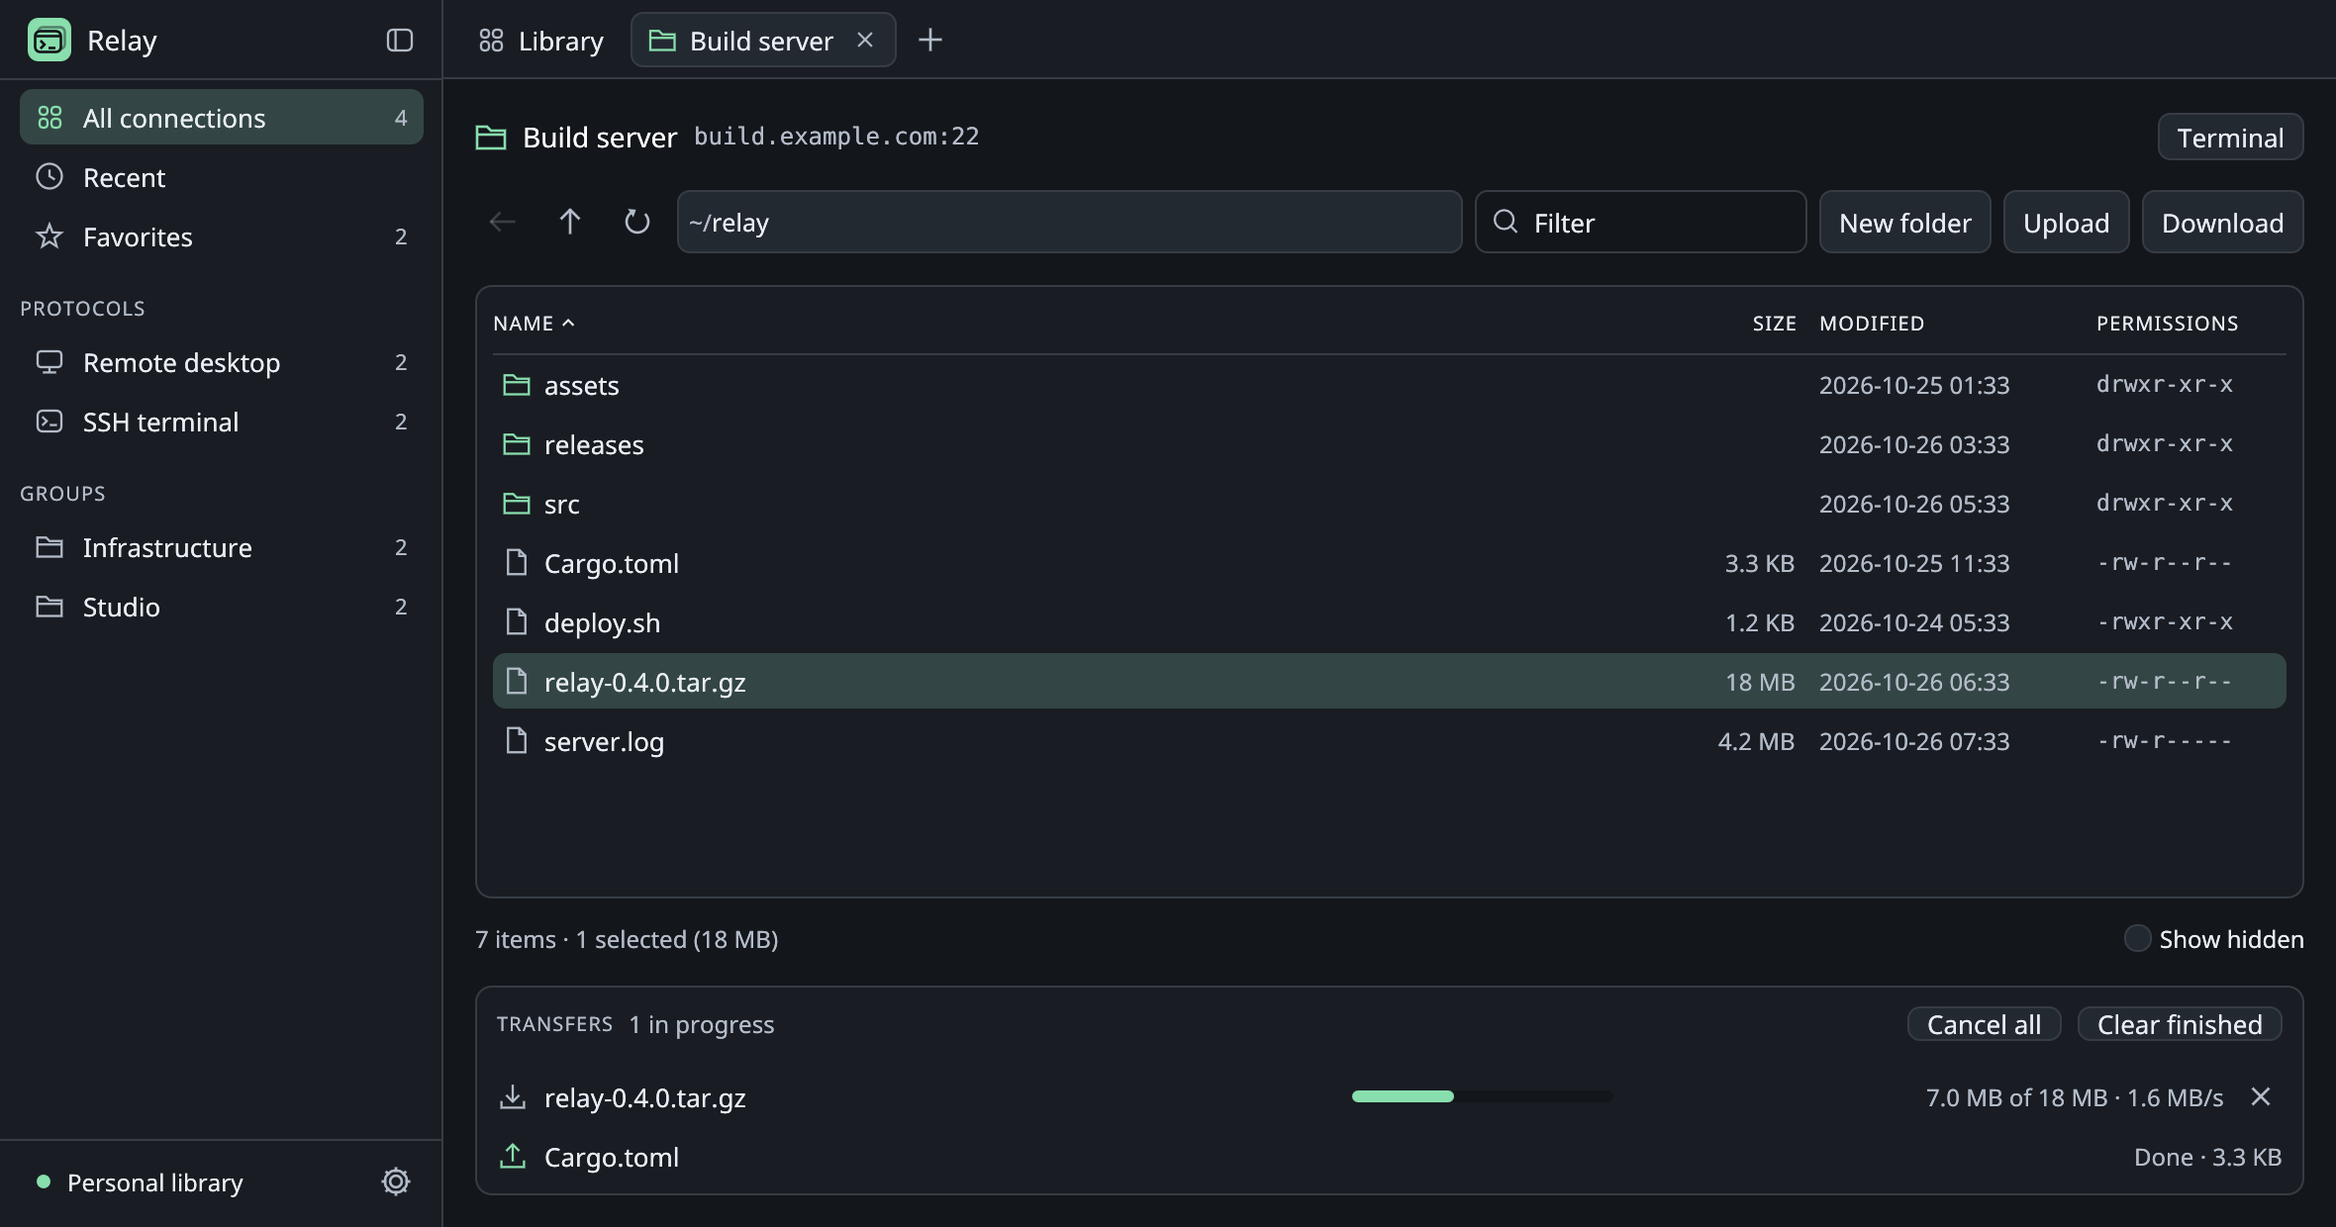
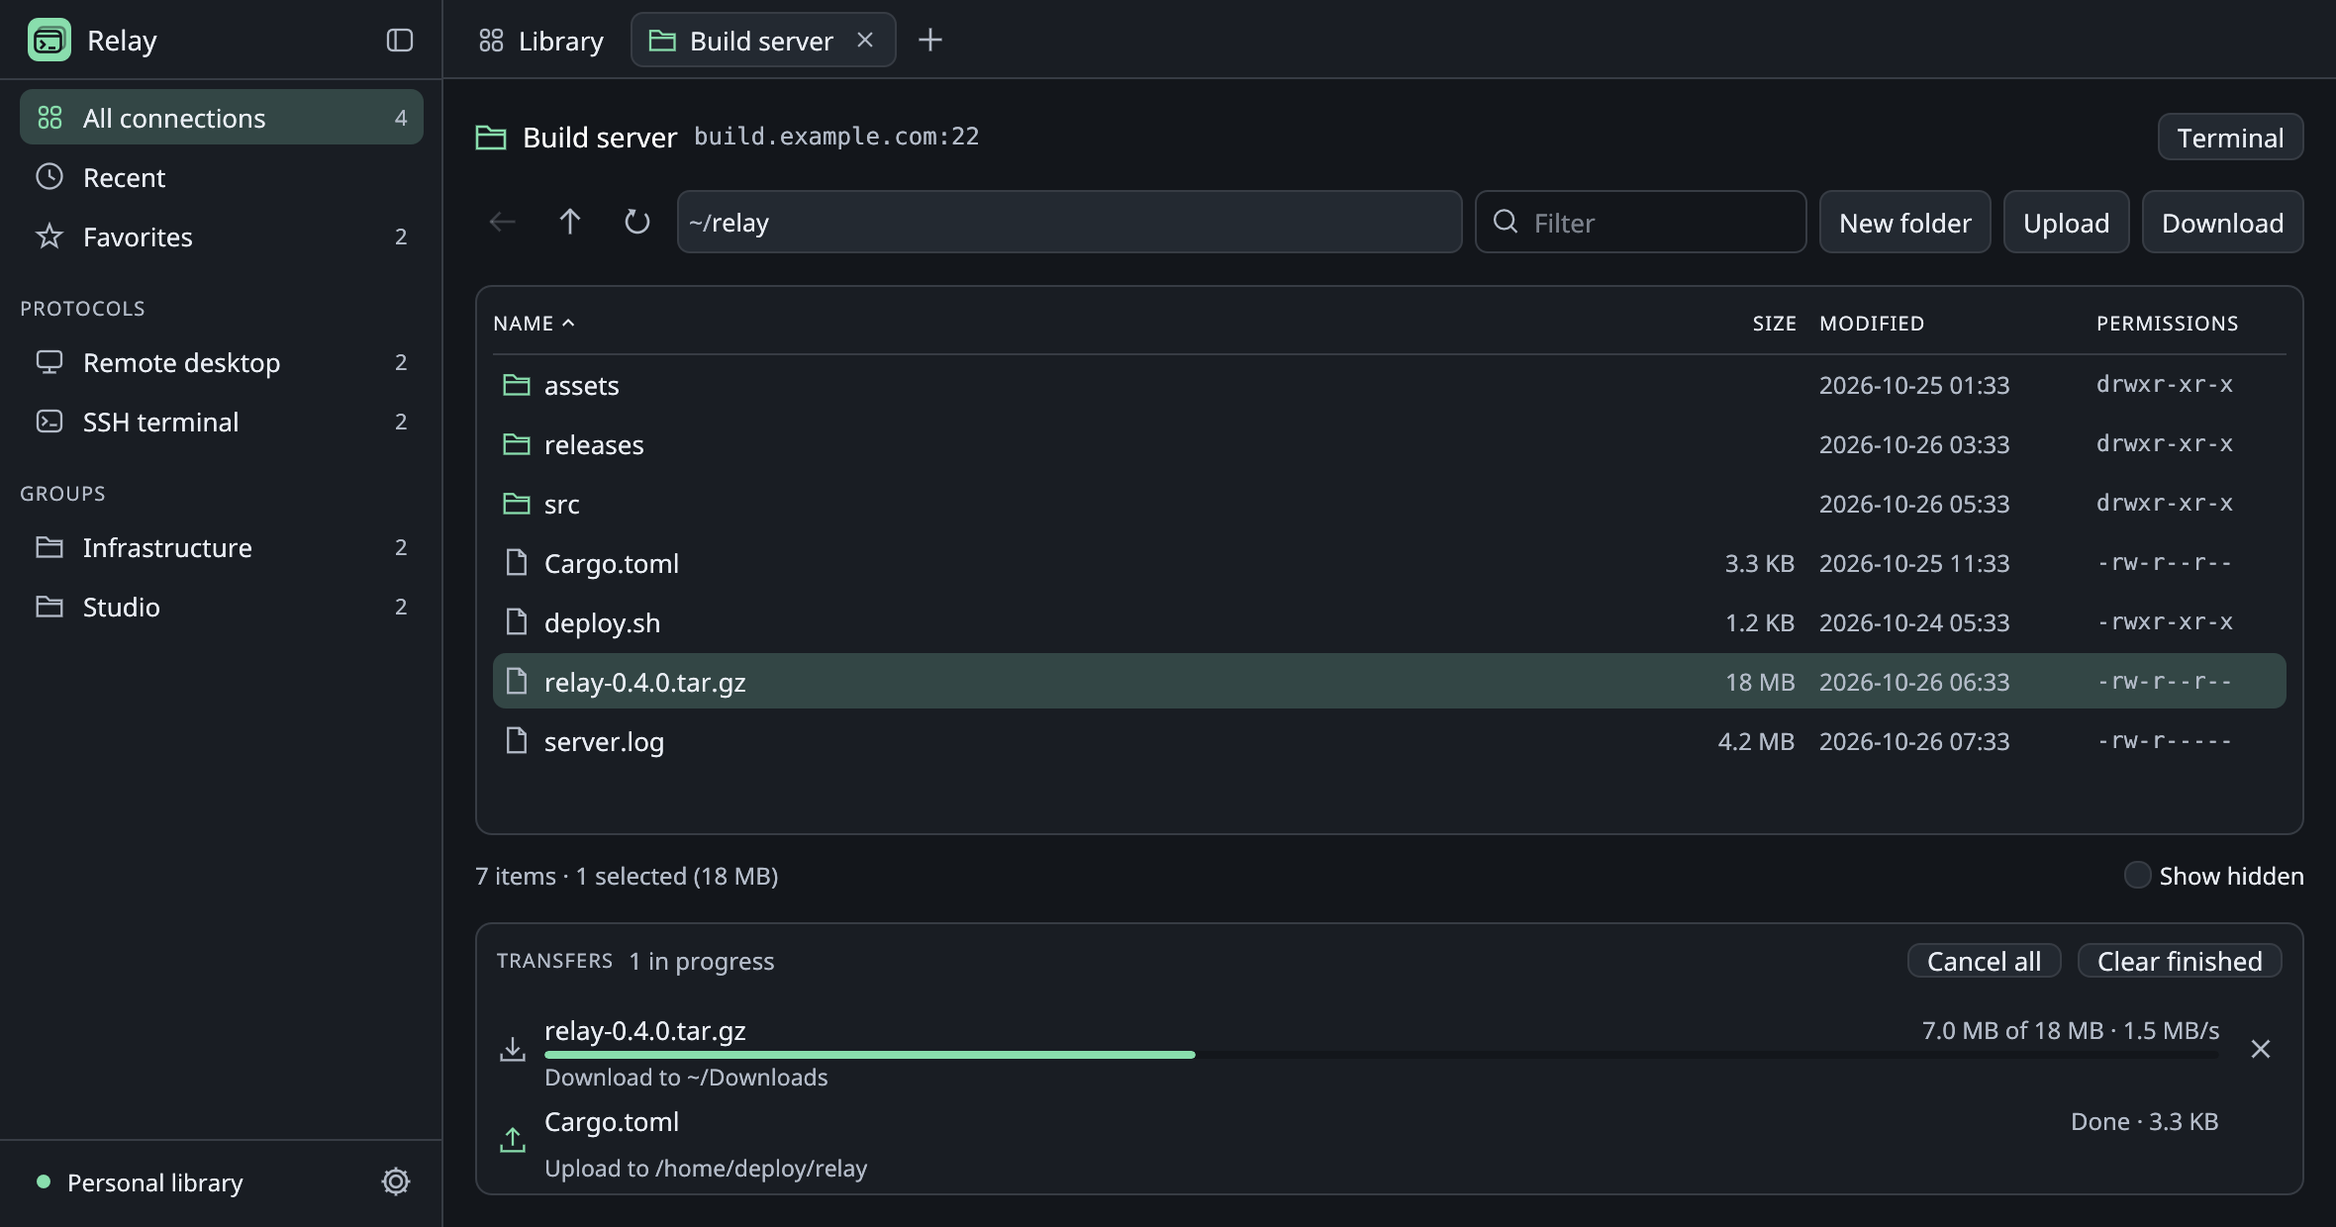
Lay transfers out on two lines and keep a long queue from crowding the listing
Each transfer now shows its name and status on the first line, a progress
bar right beneath them, and where it goes on the second line, shortened
from the start of the path when narrow. Hovering shows the full source and
destination paths. The queue scrolls past four rows or a third of the tab,
whichever is less, and the area below the listing takes the height it
needs instead of being clipped to last frame's. RELAY_UI_FILES=queue
renders a queue long enough to scroll.

Claude-Session: https://claude.ai/code/session_01HTqDGWUcTNEvHi8QqJcYEG

diff --git a/src/app/files.rs b/src/app/files.rs
@@ -7,13 +7,16 @@ use crate::sftp::{
 };
 use egui::{Align, Layout, Margin, Rect, Sense, UiBuilder};
 
-/// The height of a row in the listing and in the transfer queue.
+/// The height of a row in the listing.
 const FILE_ROW: f32 = 30.;
 
 /// The height of fields and buttons in the bars above the listing.
 const BAR_CONTROL: f32 = 28.;
 
-/// Rows of the transfer queue shown before it scrolls.
+/// The height of a row in the transfer queue: name and status, progress, destination.
+const TRANSFER_ROW: f32 = 46.;
+
+/// Rows of the transfer queue shown before it scrolls, when the tab has room for them.
 const TRANSFER_ROWS: usize = 4;
 
 /// Items dragged in a listing, which can be dropped on a folder to move them there.
@@ -184,7 +187,8 @@ fn browser(
             }
             if !files.transfers.is_empty() {
                 ui.add_space(20.);
-                transfers(ui, files);
+                let height = ui.available_height() - 60.;
+                transfers(ui, files, height);
             }
             return;
         }
@@ -214,15 +218,22 @@ fn browser(
             .layout(Layout::top_down(Align::LEFT)),
     );
     let target = table(&mut top, files, key, &names, listing.height(), actions);
+    // Not bounded below, so it takes the height it wants and the next frame makes room.
     let mut below = ui.new_child(
         UiBuilder::new()
-            .max_rect(Rect::from_min_max(egui::pos2(full.left(), split), full.max))
+            .max_rect(Rect::from_min_max(
+                egui::pos2(full.left(), split),
+                egui::pos2(full.right(), split + full.height()),
+            ))
             .layout(Layout::top_down(Align::LEFT)),
     );
     status_bar(&mut below, files, &names);
     if !files.transfers.is_empty() {
         below.add_space(2.);
-        transfers(&mut below, files);
+        // At most a third of the tab, so a long queue scrolls instead of crowding out the
+        // listing.
+        let height = (full.height() / 3.).max(TRANSFER_ROW * 1.5);
+        transfers(&mut below, files, height);
     }
     let used = below.min_rect().height();
     if (used - bottom).abs() > 0.5 {
@@ -1317,8 +1328,8 @@ fn status_bar(ui: &mut egui::Ui, files: &mut Browser, names: &[String]) {
     });
 }
 
-/// The queue of uploads and downloads, newest last.
-fn transfers(ui: &mut egui::Ui, files: &mut Browser) {
+/// The queue of uploads and downloads, newest last, scrolling past `max_height` of rows.
+fn transfers(ui: &mut egui::Ui, files: &mut Browser, max_height: f32) {
     let colors = theme::palette(ui.ctx());
     let active = files.active_transfers();
     let failed = files
@@ -1366,7 +1377,7 @@ fn transfers(ui: &mut egui::Ui, files: &mut Browser) {
             });
             egui::ScrollArea::vertical()
                 .id_salt("files-transfers")
-                .max_height(FILE_ROW * TRANSFER_ROWS as f32)
+                .max_height((TRANSFER_ROW * TRANSFER_ROWS as f32).min(max_height))
                 .auto_shrink([false, true])
                 .stick_to_bottom(true)
                 .show(ui, |ui| {
@@ -1391,88 +1402,154 @@ enum TransferAction {
     Replace,
 }
 
+/// One transfer on two lines: the name with its status, a progress bar beneath while it
+/// runs, and where it goes. The full paths show on hover.
 fn transfer_row(ui: &mut egui::Ui, t: &Transfer, actions: &mut Vec<(u64, TransferAction)>) {
     let colors = theme::palette(ui.ctx());
     let width = ui.available_width();
-    let (rect, _) = ui.allocate_exact_size(Vec2::new(width, FILE_ROW), Sense::hover());
-    let mut row = ui.new_child(
-        UiBuilder::new()
-            .max_rect(rect)
-            .layout(Layout::left_to_right(Align::Center)),
-    );
-    row.spacing_mut().item_spacing.x = 8.;
+    let (rect, response) = ui.allocate_exact_size(Vec2::new(width, TRANSFER_ROW), Sense::hover());
     let (icon, verb) = match t.direction {
         Direction::Upload => (Icon::Upload, "Upload to"),
         Direction::Download => (Icon::Download, "Download to"),
     };
-    let (icon_rect, _) = row.allocate_exact_size(Vec2::splat(16.), Sense::hover());
     let tint = match &t.state {
         TransferState::Done => colors.accent,
-        TransferState::Stopped(Failure::Error(_)) => row.visuals().error_fg_color,
-        TransferState::Stopped(Failure::Exists(_)) => row.visuals().warn_fg_color,
+        TransferState::Stopped(Failure::Error(_)) => ui.visuals().error_fg_color,
+        TransferState::Stopped(Failure::Exists(_)) => ui.visuals().warn_fg_color,
         _ => colors.muted,
     };
-    icons::paint_sized(row.painter(), icon, icon_rect.center(), ICON_SIZE, tint);
-    // Buttons and status sit at the right; the name and progress share what is left.
-    let (status, color) = transfer_status(&row, t);
-    row.with_layout(Layout::right_to_left(Align::Center), |ui| {
-        match &t.state {
-            TransferState::Queued | TransferState::Running => {
-                if icon_button(ui, Icon::Close, 22., "Cancel").clicked() {
-                    actions.push((t.id, TransferAction::Cancel));
-                }
+    icons::paint_sized(
+        ui.painter(),
+        icon,
+        egui::pos2(rect.left() + 8., rect.center().y),
+        ICON_SIZE,
+        tint,
+    );
+    // The button sits at the right, centered on the row; a finished transfer keeps an
+    // empty slot the size of the cancel button, so the statuses line up.
+    let mut buttons = ui.new_child(
+        UiBuilder::new()
+            .max_rect(Rect::from_min_max(
+                egui::pos2(rect.right() - 120., rect.top()),
+                rect.max,
+            ))
+            .layout(Layout::right_to_left(Align::Center)),
+    );
+    match &t.state {
+        TransferState::Queued | TransferState::Running => {
+            if icon_button(&mut buttons, Icon::Close, 22., "Cancel").clicked() {
+                actions.push((t.id, TransferAction::Cancel));
             }
-            TransferState::Stopped(Failure::Exists(_)) => {
-                if ui.small_button("Replace").clicked() {
-                    actions.push((t.id, TransferAction::Replace));
-                }
-            }
-            TransferState::Stopped(_) => {
-                if ui.small_button("Retry").clicked() {
-                    actions.push((t.id, TransferAction::Retry));
-                }
-            }
-            TransferState::Done => {}
         }
-        let status_width = (ui.available_width() * 0.42).clamp(90., 300.);
-        let (cell, response) =
-            ui.allocate_exact_size(Vec2::new(status_width, FILE_ROW), Sense::hover());
-        cell_text(
+        TransferState::Stopped(Failure::Exists(_)) => {
+            if buttons.small_button("Replace").clicked() {
+                actions.push((t.id, TransferAction::Replace));
+            }
+        }
+        TransferState::Stopped(_) => {
+            if buttons.small_button("Retry").clicked() {
+                actions.push((t.id, TransferAction::Retry));
+            }
+        }
+        TransferState::Done => {
+            buttons.allocate_exact_size(Vec2::splat(22.), Sense::hover());
+        }
+    }
+    let right = buttons.min_rect().left() - 10.;
+    let column = Rect::from_min_max(
+        egui::pos2(rect.left() + 24., rect.top()),
+        egui::pos2(right, rect.bottom()),
+    );
+    if column.width() <= 0. {
+        return;
+    }
+    let line = |center: f32, height: f32| {
+        Rect::from_center_size(
+            egui::pos2(column.center().x, rect.top() + center),
+            Vec2::new(column.width(), height),
+        )
+    };
+    let (first, bar, second) = (line(13., 18.), line(26., 4.), line(37., 14.));
+    // The status keeps its full width up to most of the line; the name takes the rest.
+    let (status, color) = transfer_status(ui, t);
+    let status_galley = egui::WidgetText::from(RichText::new(&status).size(12.).color(color))
+        .into_galley(
             ui,
-            cell,
-            cell.left(),
-            cell.width(),
-            RichText::new(&status).size(12.).color(color),
-            true,
+            Some(egui::TextWrapMode::Truncate),
+            column.width() * 0.6,
+            egui::TextStyle::Body,
         );
-        response.on_hover_text(&status);
-        if let (TransferState::Running | TransferState::Queued, Some(fraction)) =
-            (&t.state, t.fraction())
-        {
-            ui.add(
-                egui::ProgressBar::new(fraction)
-                    .desired_width(ui.available_width().min(140.) - 8.)
-                    .desired_height(6.)
-                    .fill(colors.accent)
-                    .corner_radius(3),
-            );
-        } else if t.state == TransferState::Running {
-            ui.add(egui::Spinner::new().size(14.));
-        }
-        ui.with_layout(Layout::left_to_right(Align::Center), |ui| {
-            let (cell, response) =
-                ui.allocate_exact_size(Vec2::new(ui.available_width(), FILE_ROW), Sense::hover());
-            cell_text(
+    let status_width = status_galley.size().x;
+    ui.painter().galley(
+        egui::pos2(
+            first.right() - status_width,
+            first.center().y - status_galley.size().y / 2.,
+        ),
+        status_galley,
+        colors.text,
+    );
+    cell_text(
+        ui,
+        first,
+        first.left(),
+        first.width() - status_width - 12.,
+        RichText::new(&t.name).size(13.),
+        false,
+    );
+    if let (TransferState::Running | TransferState::Queued, Some(fraction)) =
+        (&t.state, t.fraction())
+    {
+        // In a child, so the row's layout keeps its place below the whole row.
+        ui.new_child(UiBuilder::new().max_rect(bar)).add(
+            egui::ProgressBar::new(fraction)
+                .desired_height(bar.height())
+                .fill(colors.accent)
+                .corner_radius(2),
+        );
+    }
+    let small = |text: String| RichText::new(text).size(11.5).color(colors.muted);
+    let destination = fit_path(ui, verb, &t.destination, second.width(), small);
+    cell_text(
+        ui,
+        second,
+        second.left(),
+        second.width(),
+        destination,
+        false,
+    );
+    let (from, to) = t.paths();
+    response.on_hover_text(format!("{status}\n\nFrom  {from}\nTo  {to}"));
+}
+
+/// "`verb` `path`" styled by `style`, with the start of the path dropped as needed to fit
+/// `width`: the folders nearest the item say the most about where it goes.
+fn fit_path(
+    ui: &egui::Ui,
+    verb: &str,
+    path: &str,
+    width: f32,
+    style: impl Fn(String) -> RichText,
+) -> RichText {
+    let fits = |text: &RichText| {
+        egui::WidgetText::from(text.clone())
+            .into_galley(
                 ui,
-                cell,
-                cell.left(),
-                cell.width(),
-                RichText::new(&t.name).size(13.),
-                false,
-            );
-            response.on_hover_text(format!("{verb} {}", t.destination));
-        });
-    });
+                Some(egui::TextWrapMode::Extend),
+                f32::INFINITY,
+                egui::TextStyle::Body,
+            )
+            .size()
+            .x
+            <= width
+    };
+    let mut text = style(format!("{verb} {path}"));
+    for (index, _) in path.char_indices().skip(1) {
+        if fits(&text) {
+            break;
+        }
+        text = style(format!("{verb} …{}", &path[index..]));
+    }
+    text
 }
 
 /// What a transfer is doing, in words, and the color to show it in.

diff --git a/src/sftp.rs b/src/sftp.rs
@@ -196,6 +196,14 @@ impl Transfer {
         }
     }
 
+    /// The full paths it copies from and to, for display.
+    pub fn paths(&self) -> (String, String) {
+        match &self.job {
+            Job::Upload { local, remote, .. } => (local.display().to_string(), remote.clone()),
+            Job::Download { remote, local, .. } => (remote.clone(), local.display().to_string()),
+        }
+    }
+
     /// Bytes per second since the transfer started.
     pub fn rate(&self) -> Option<f64> {
         let seconds = self.started?.elapsed().as_secs_f64();
@@ -430,16 +438,25 @@ impl Browser {
     /// Adds a transfer as if it were under way, for rendering checks.
     #[cfg(feature = "ui-check")]
     pub fn demo_transfer(&mut self, name: &str, direction: Direction, done: u64, total: u64) {
-        let id = self.queue(
-            Job::Download {
-                remote: join(&self.path, name),
-                local: PathBuf::from(name),
-                replace: false,
-            },
-            direction,
-            name.into(),
-            "~/Downloads".into(),
-        );
+        let (job, destination) = match direction {
+            Direction::Download => (
+                Job::Download {
+                    remote: join(&self.path, name),
+                    local: Path::new("~/Downloads").join(name),
+                    replace: false,
+                },
+                "~/Downloads".into(),
+            ),
+            Direction::Upload => (
+                Job::Upload {
+                    local: Path::new("~/Projects/relay").join(name),
+                    remote: join(&self.path, name),
+                    replace: false,
+                },
+                self.path.clone(),
+            ),
+        };
+        let id = self.queue(job, direction, name.into(), destination);
         let transfer = self.transfers.iter_mut().find(|t| t.id == id).unwrap();
         transfer.total = Some(total);
         transfer.done = done;

diff --git a/src/app/ui_check.rs b/src/app/ui_check.rs
@@ -351,6 +351,17 @@ fn files(app: &mut App) {
                 "relay-0.4.0.tar.gz".into(),
             ]));
         }
+        // A queue longer than its share of the tab, which scrolls.
+        Ok("queue") => {
+            for n in 1..=8 {
+                browser.demo_transfer(
+                    &format!("build-{n:02}.log"),
+                    Direction::Download,
+                    n * 40_000,
+                    400_000,
+                );
+            }
+        }
         Ok("password") => browser.demo_prompt(
             "deploy@build.example.com's password:",
             crate::askpass::Kind::Secret,

diff --git a/CONTRIBUTING.md b/CONTRIBUTING.md
@@ -65,7 +65,7 @@ The optional `ui-check` feature captures rendered screens without writing profil
 RELAY_UI_CHECK="$PWD/target/preview.png" cargo run --features ui-check
 ```
 
-Add `RELAY_UI_FIXTURE=1` to render the sample CSV, `RELAY_UI_EMPTY=1` for an empty library, `RELAY_UI_IMPORT=1` for its preview, `RELAY_UI_EDITOR=1` for the editor, `RELAY_UI_DATABASE=1` (or `=mysql`, with `RELAY_UI_NO_TLS=1` to show TLS turned off) for database setup, `RELAY_UI_SETTINGS=1` for the settings menu, `RELAY_UI_TABS=1` for session tabs, or `RELAY_UI_TERMINAL=1 RELAY_UI_LIBRARY=1` for the library with a session open. `RELAY_UI_FILES=1` shows the file browser with transfers (add `RELAY_UI_SPLIT=1` to put it beside a terminal), and `RELAY_UI_FILES=hostkey` or `=password` its sign-in prompts. `RELAY_UI_THEME=Midnight` (or another theme name) previews a palette without changing the saved preference. `RELAY_UI_ZOOM=3` enlarges everything, to inspect icons and other small details. `RELAY_UI_FILTER=favorites` (or `recent`) opens that view, `RELAY_UI_NO_FAVORITES=1` clears the sample favorites, and `RELAY_UI_ENDED=1` shows the terminal session as ended. With `RELAY_UI_SETTINGS=1`, `RELAY_UI_LOCATION=sqlite`, `mssql`, `mssql-forgotten` or `mysql` shows that kind of library as open.
+Add `RELAY_UI_FIXTURE=1` to render the sample CSV, `RELAY_UI_EMPTY=1` for an empty library, `RELAY_UI_IMPORT=1` for its preview, `RELAY_UI_EDITOR=1` for the editor, `RELAY_UI_DATABASE=1` (or `=mysql`, with `RELAY_UI_NO_TLS=1` to show TLS turned off) for database setup, `RELAY_UI_SETTINGS=1` for the settings menu, `RELAY_UI_TABS=1` for session tabs, or `RELAY_UI_TERMINAL=1 RELAY_UI_LIBRARY=1` for the library with a session open. `RELAY_UI_FILES=1` shows the file browser with transfers (add `RELAY_UI_SPLIT=1` to put it beside a terminal), `RELAY_UI_FILES=queue` a transfer queue long enough to scroll, and `RELAY_UI_FILES=hostkey` or `=password` its sign-in prompts. `RELAY_UI_THEME=Midnight` (or another theme name) previews a palette without changing the saved preference. `RELAY_UI_ZOOM=3` enlarges everything, to inspect icons and other small details. `RELAY_UI_FILTER=favorites` (or `recent`) opens that view, `RELAY_UI_NO_FAVORITES=1` clears the sample favorites, and `RELAY_UI_ENDED=1` shows the terminal session as ended. With `RELAY_UI_SETTINGS=1`, `RELAY_UI_LOCATION=sqlite`, `mssql`, `mssql-forgotten` or `mysql` shows that kind of library as open.
 
 ## Icon
 
